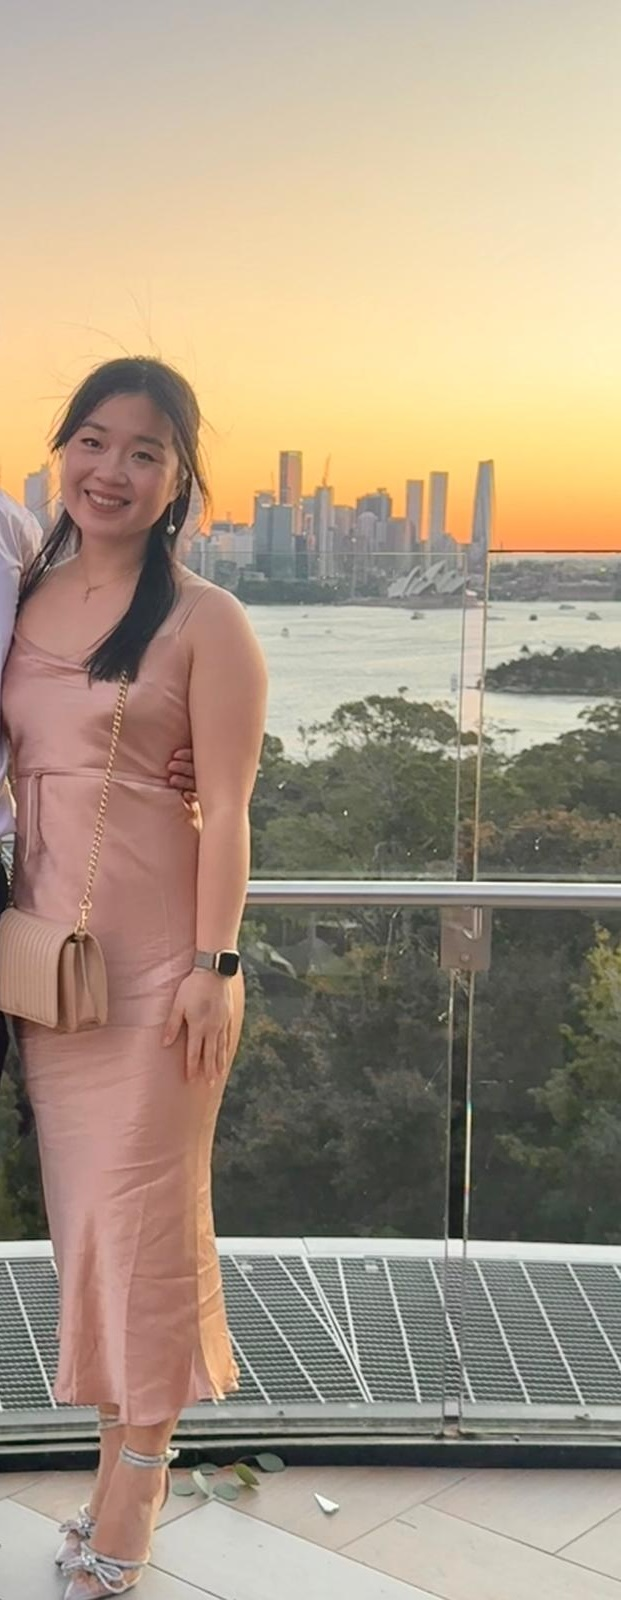
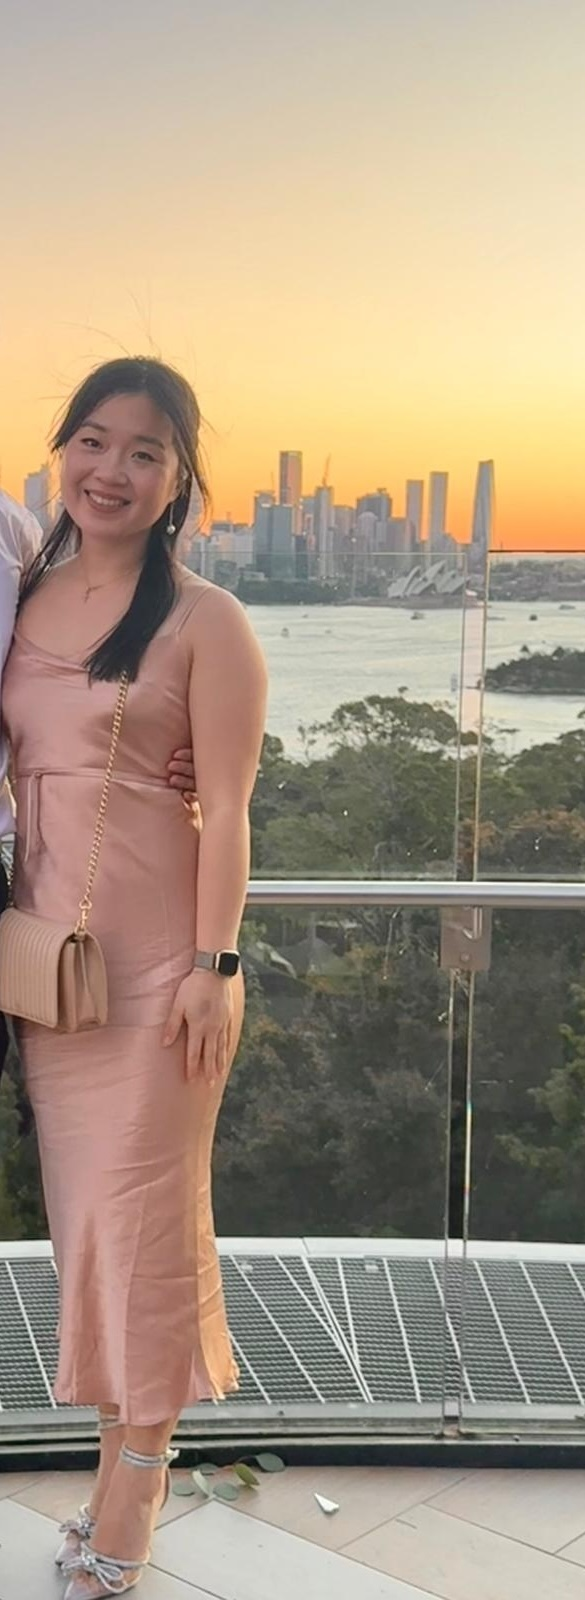
why no hero image?

diff --git a/index.html b/index.html
@@ -16,7 +16,7 @@
     <meta name="theme-color" content="#ffffff">
     <meta property="og:title" content="Michelle & Yiwei getting married">
     <meta property="og:description" content="We would like to invite you to our big day.">
-    <meta property="og:image" content="img/hero.jpg">
+    <meta property="og:image" content="https://wedding.ramswaroop.me/img/hero-min.jpg">
     <meta property="og:type" content="website">
     <link rel="apple-touch-icon" sizes="180x180" href="apple-touch-icon.png">
     <link rel="icon" type="image/png" sizes="32x32" href="favicon-32x32.png">
